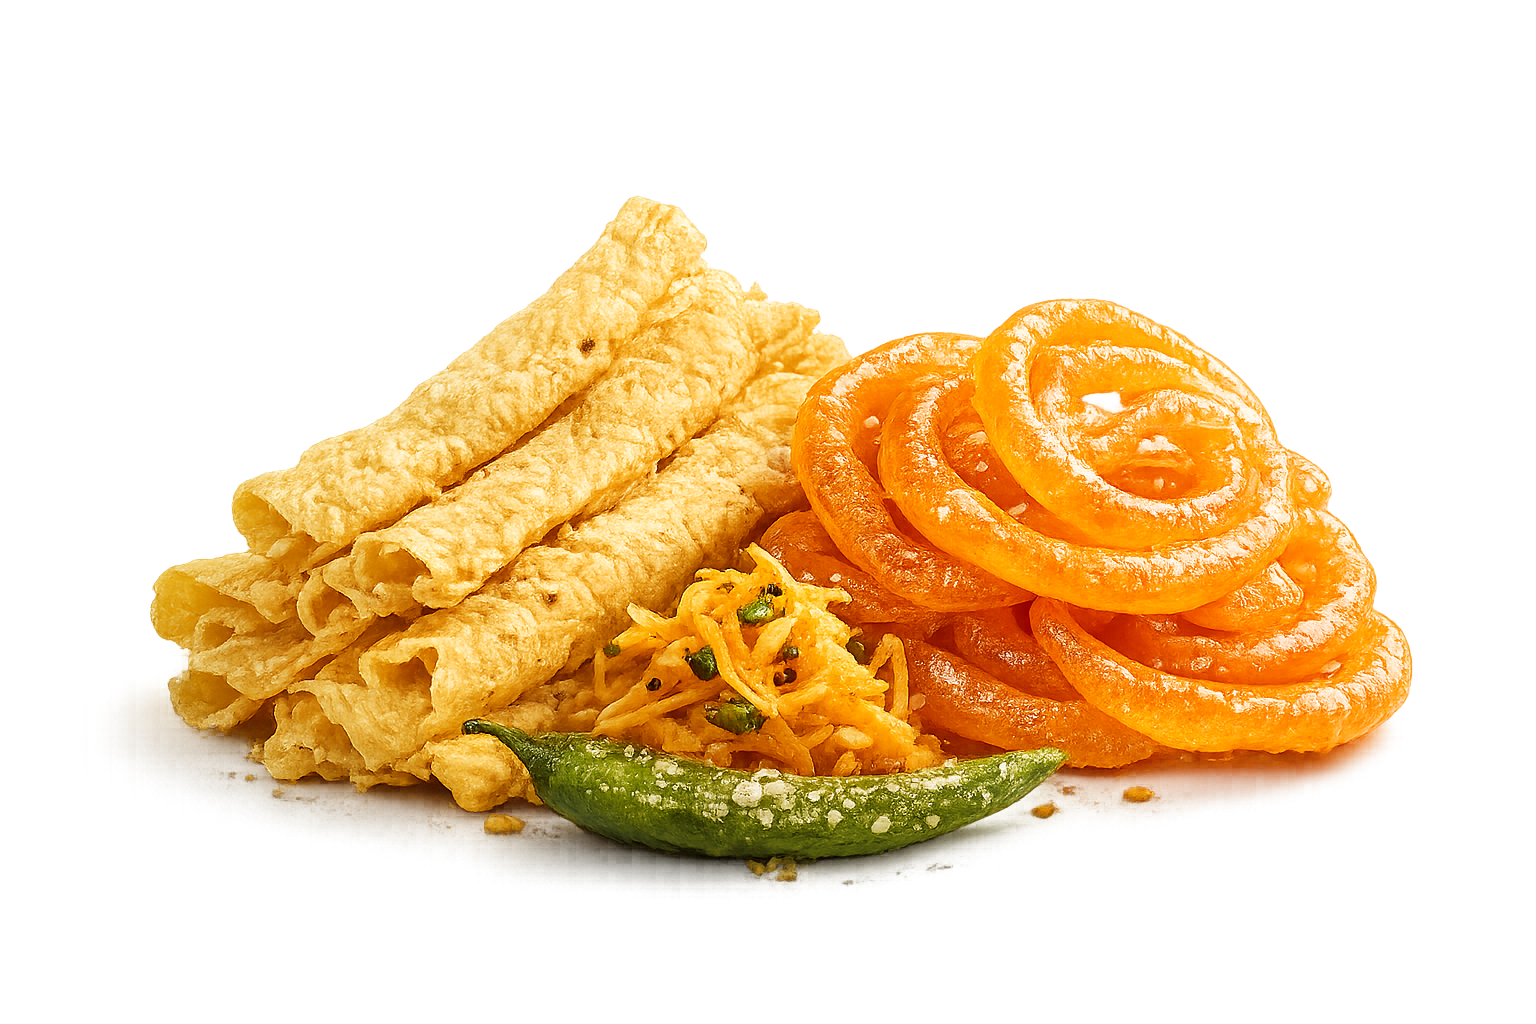
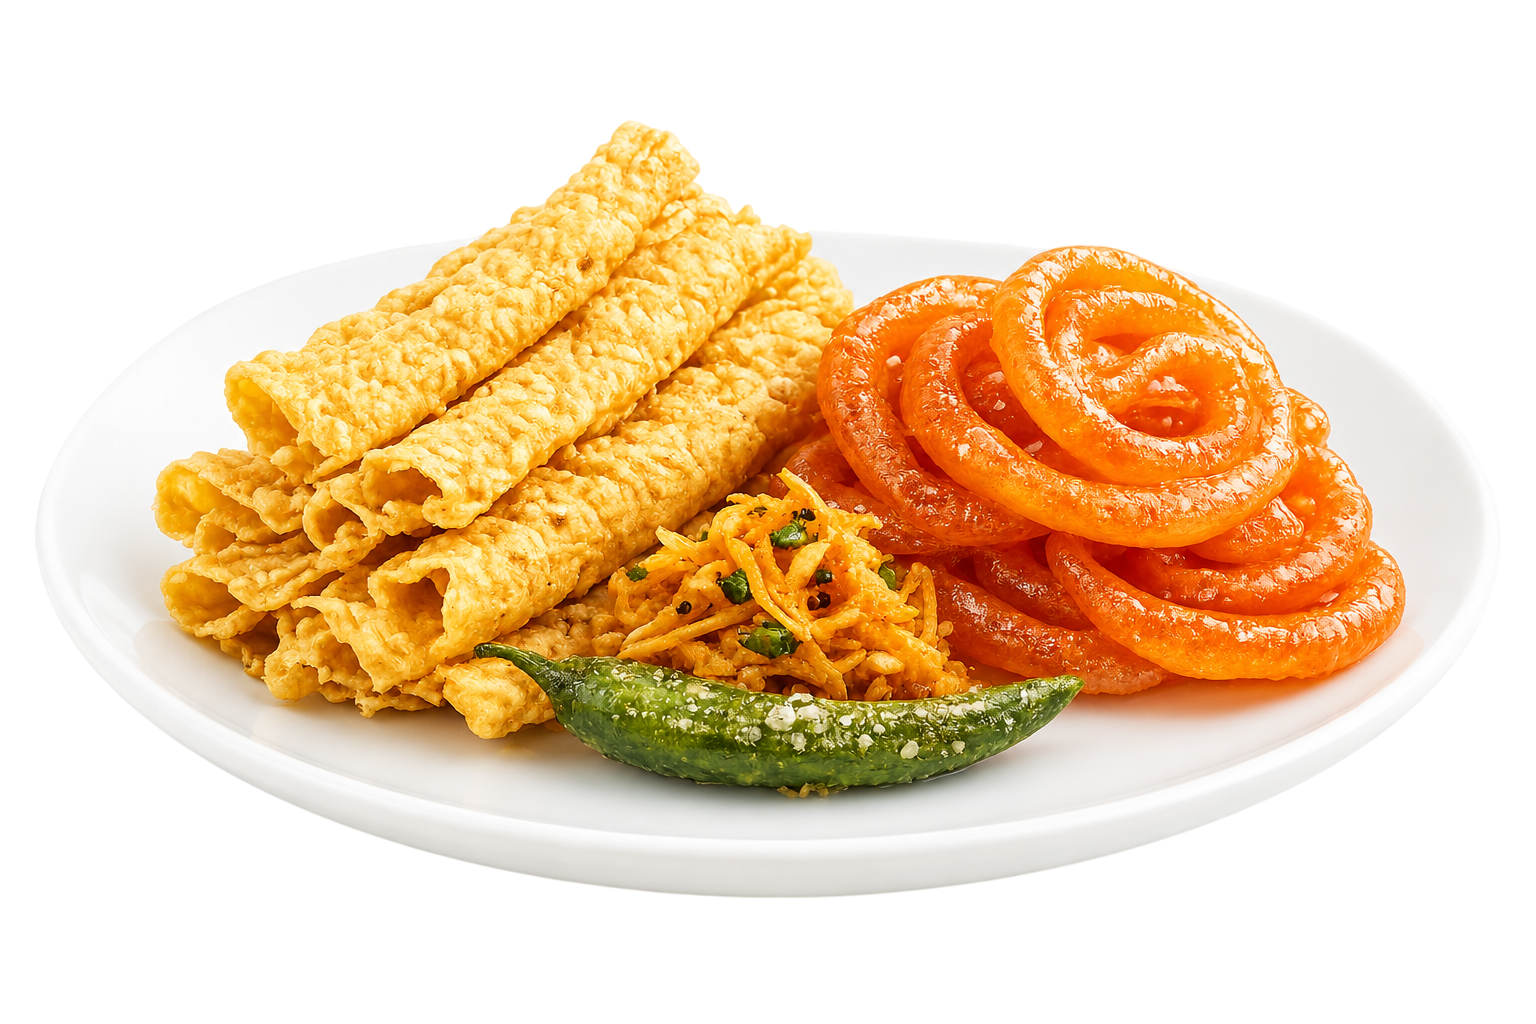
product image & Change the product

diff --git a/src/components/ProductShowcase.tsx b/src/components/ProductShowcase.tsx
@@ -27,17 +27,17 @@ interface Product {
 // Order follows the approved scroll flow: 0-20% … 80-100%.
 const PRODUCTS: Product[] = [
   {
-    id: "royal-faluda",
-    name: "Royal Faluda",
-    price: "$8.90",
+    id: "pav-bhaji",
+    name: "Pav Bhaji",
+    price: "$7.50",
     badge: "Customer Favourite",
-    story: "A regal Mughlai indulgence, poured cold and crowned with kulfi.",
+    story: "A beloved Mumbai street food, bursting with flavour and served with buttery pav.",
     description:
-      "Chilled rose-kissed milk layered over silky vermicelli and basil seeds, finished with a slow-set saffron kulfi.",
-    ingredients: ["Rose Petals", "Pistachios", "Almonds", "Basil Seeds", "Kulfi Ice Cream"],
+      "A rich vegetable mash simmered in a spiced tomato gravy, served piping hot with toasted butter pav and a squeeze of lemon.",
+    ingredients: ["Butter Pav", "Tomato Gravy", "Mixed Vegetables", "Lemon", "Coriander"],
     glow: "rgba(232, 93, 134, 0.55)",
     accent: "#E85D86",
-    image: "royal-faluda.png",
+    image: "pav-bhaji.png",
   },
   {
     id: "vada-pav",
